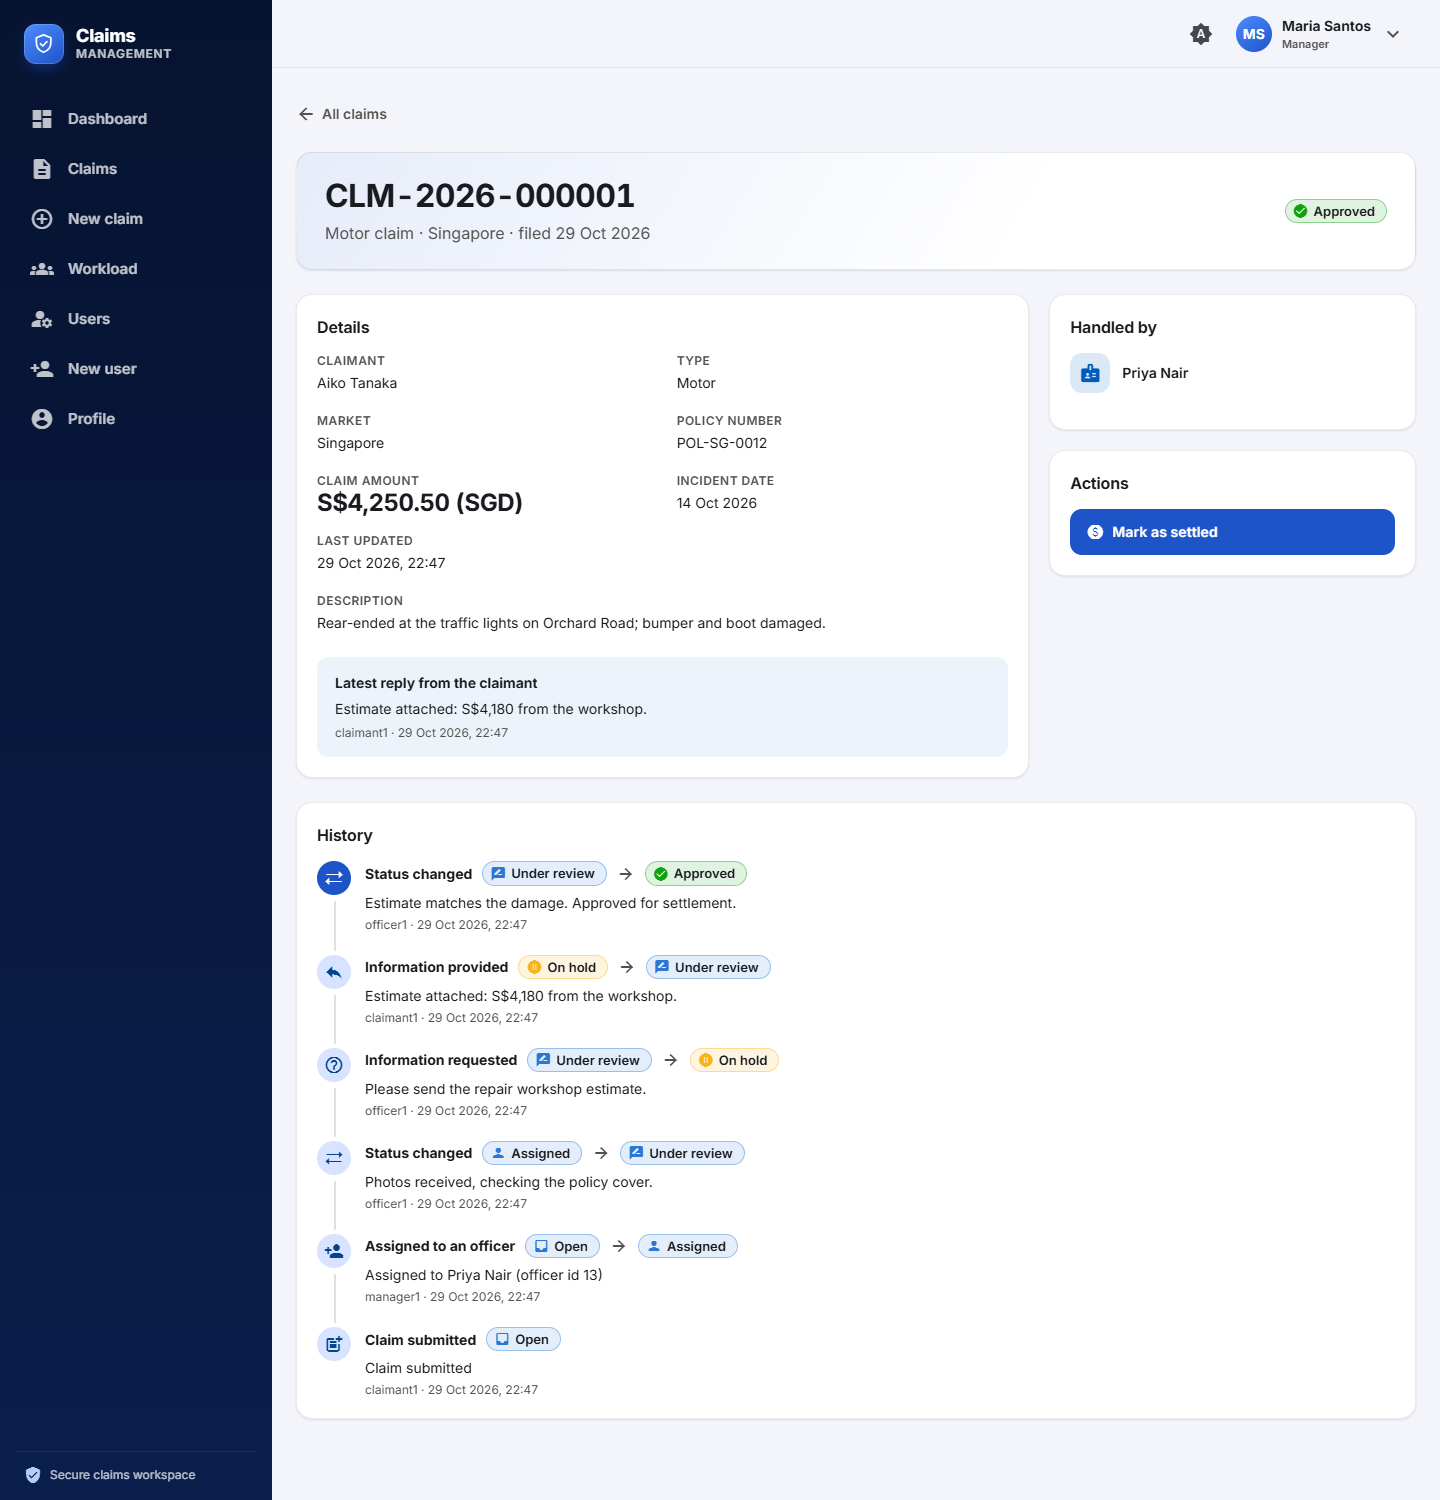
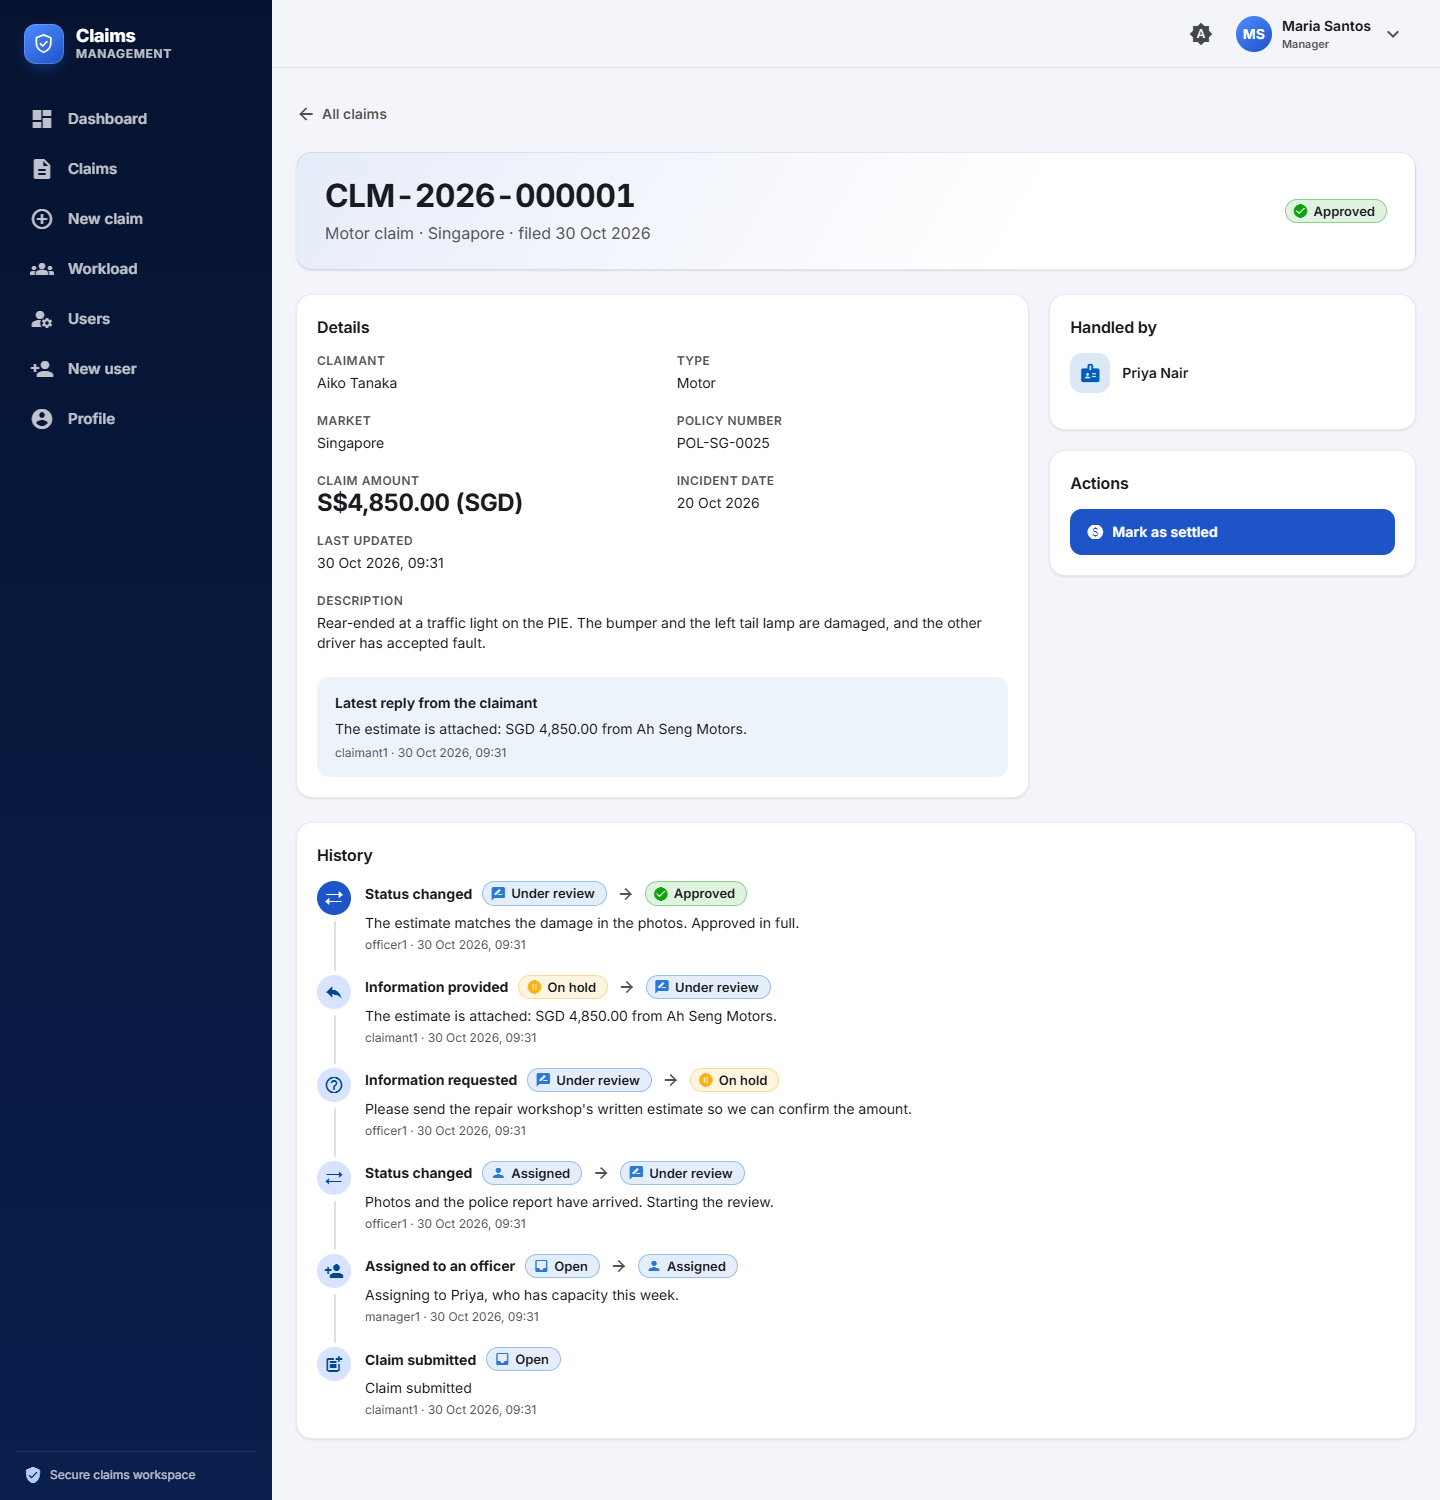
Update the README screenshots, and add the two public sign-in pages
The sign-in screenshot on GitHub was the old one, without the Forgot password?
and Create new user links. All three existing screenshots are retaken from the
running app (the claim page now shows the whole history through approval), and
the README gains two: Create new user and Reset your password, filled in with
made-up details and never submitted.

The README text describes those two pages and the endpoints behind them. Their
code is not in this commit and follows separately.

diff --git a/README.md b/README.md
@@ -37,8 +37,10 @@ changing the code are in [CLAUDE.md](CLAUDE.md); how it was built with AI assist
 
 | | |
 |---|---|
-| ![The sign-in screen: a brand panel on the left, the sign-in form with demo-account buttons on the right](docs/screens/login.png) | ![A claim page as a manager sees it: details, who handles it, the next action, and the history timeline from submission to approval](docs/screens/claim.png) |
-| **Sign-in.** One screen on any window size; the demo-account buttons appear in development builds only. | **A claim.** Details, handler, next action and the full audit trail, including an information request and the claimant's reply. |
+| ![The sign-in screen: a brand panel on the left, the sign-in form on the right with Forgot password and Create new user links and demo-account buttons](docs/screens/login.png) | ![A claim page as a manager sees it: details, who handles it, the next action, and the history timeline from submission to approval](docs/screens/claim.png) |
+| **Sign-in.** One screen on any window size, with **Forgot password?** and **Create new user** links; the demo-account buttons appear in development builds only. | **A claim.** Details, handler, next action and the full audit trail, including an information request and the claimant's reply. |
+| ![Create new user, reached from the sign-in screen with no account: person details, role and sign-in on one page, with the password confirmed](docs/screens/register.png) | ![Reset your password, reached from the sign-in screen: username, the email on the account and a new password, entered twice](docs/screens/forgot-password.png) |
+| **Create new user.** Open to anyone from the sign-in screen: person, role and sign-in, with the password asked for twice. Every role is on offer, by choice (see [Web app](#web-app)). | **Reset your password.** The username, the email the account was registered with and a new password. Nothing is mailed; see [Web app](#web-app) for what that means. |
 
 ![The officer workload page: active officers, open claims and capacity left, and one officer's load against capacity](docs/screens/workload.png)
 
@@ -231,6 +233,22 @@ own in development: its `/api` proxy points at the gateway on 8080 (`frontend/pr
 default. Send it as `Authorization: Bearer <token>` on every other call through the gateway. How tokens are issued and
 validated is described in [architecture.md](architecture.md#5-security).
 
+Two more calls need no token, and are what the web app's **Create new user** and **Forgot password?** pages use:
+
+```bash
+# Sign up as any role (CLAIMANT, OFFICER or MANAGER); 201, and the account can log in at once
+curl -s -X POST http://localhost:8080/api/auth/register -H "Content-Type: application/json" \
+  -d '{"username":"nora","password":"secret123","role":"CLAIMANT","fullName":"Nora Lim","email":"nora@example.com"}'
+
+# Set a new password from the username and the email the account was registered with; 204.
+# An unknown user, an inactive account and a wrong email all answer 409 "Those details do not match an active account"
+curl -s -X POST http://localhost:8080/api/auth/reset-password -H "Content-Type: application/json" \
+  -d '{"username":"nora","email":"nora@example.com","newPassword":"another123"}'
+```
+
+Both are weak on purpose (anyone can sign up as a manager; a username and an email are enough to reset a password): see
+[architecture.md](architecture.md#231-security).
+
 #### Swagger UI
 
 * **Aggregated, via the gateway:** http://localhost:8080/swagger-ui.html.
@@ -249,6 +267,8 @@ validated is described in [architecture.md](architecture.md#5-security).
 | `PUT /api/claims/{id}/assignment`          | ✖                | ✖                              | ✔       |
 | `PATCH /api/claims/{id}/status`            | own claim, only to answer an information request | only claims assigned to them | ✔ |
 | `POST /api/auth/login`                     | ✔ (public)       | ✔ (public)                     | ✔ (public) |
+| `POST /api/auth/register`                  | ✔ (public, any role) | ✔ (public, any role)       | ✔ (public, any role) |
+| `POST /api/auth/reset-password`            | ✔ (public, username + email) | ✔ (public, username + email) | ✔ (public, username + email) |
 | `GET /api/users/me`, `/api/users/{id}`     | own profile only | any user                       | any user |
 | `GET /api/users?role=&active=`             | ✖                | ✔                              | ✔       |
 | `POST /api/users`                          | ✖                | any role (including `MANAGER`) | any role |
@@ -342,6 +362,14 @@ users; a production build does not contain them.
   The table is `models/currency.ts`. There is **no conversion between currencies**: the backend stores the bare amount and has
   no currency field or exchange rates, so the market says which currency an amount is in. Amounts stored before this (the demo
   claims) are read as being in their market's currency.
+* **Create new user and Forgot password, without signing in.** The sign-in screen links to both (**Forgot password?** under
+  the password, **Create new user** under the button). **Create new user** (`/register`) is the staff New user form (person,
+  role, sign-in) with every role on offer and the password asked for twice; it signs nobody in, it sends them back to the
+  sign-in screen with a notice. **Forgot password?** (`/forgot-password`) asks for the username, the email the account was
+  registered with and a new password (twice), and sets it. **Both are deliberately weak, by choice:** anyone can sign up as a
+  manager, and anyone who knows a username and its email can reset that password, officers and managers included. Nothing is
+  mailed (there is no mail server), and there is no rate limit or verification. See [CLAUDE.md](CLAUDE.md) and
+  [architecture.md](architecture.md#231-security).
 * **Users.** Staff can list users (**Users** in the side navigation) and register new ones (**New user**). The form is
   **Person details**, then a **Role** dropdown (Claimant, Officer or Manager), then the sign-in; no role adds a section of its
   own. An officer is registered with the server's default capacity of **5 open claims** and no specialization (the backend
@@ -364,7 +392,8 @@ users; a production build does not contain them.
 ### Tests
 
 * **Unit** (`*.spec.ts` beside the code, Vitest): API error parsing, auth and session timing, both interceptors, guards, the
-  workflow rules, validators, currency and the policy-number rule, and the login, status, New claim and New user screens.
+  workflow rules, validators, currency and the policy-number rule, and the login, Create new user, Forgot password, status,
+  New claim and New user screens.
 * **End to end** (`e2e/`, Playwright): drive a real browser against the real stack, using the demo users. One spec walks a
   claim through the whole lifecycle across all three roles. Start the backend, then `npm run e2e`. It uses the Edge that
   ships with Windows (no browser download); set `E2E_BROWSER=chrome` for Chrome, or `E2E_BASE_URL` to test an
